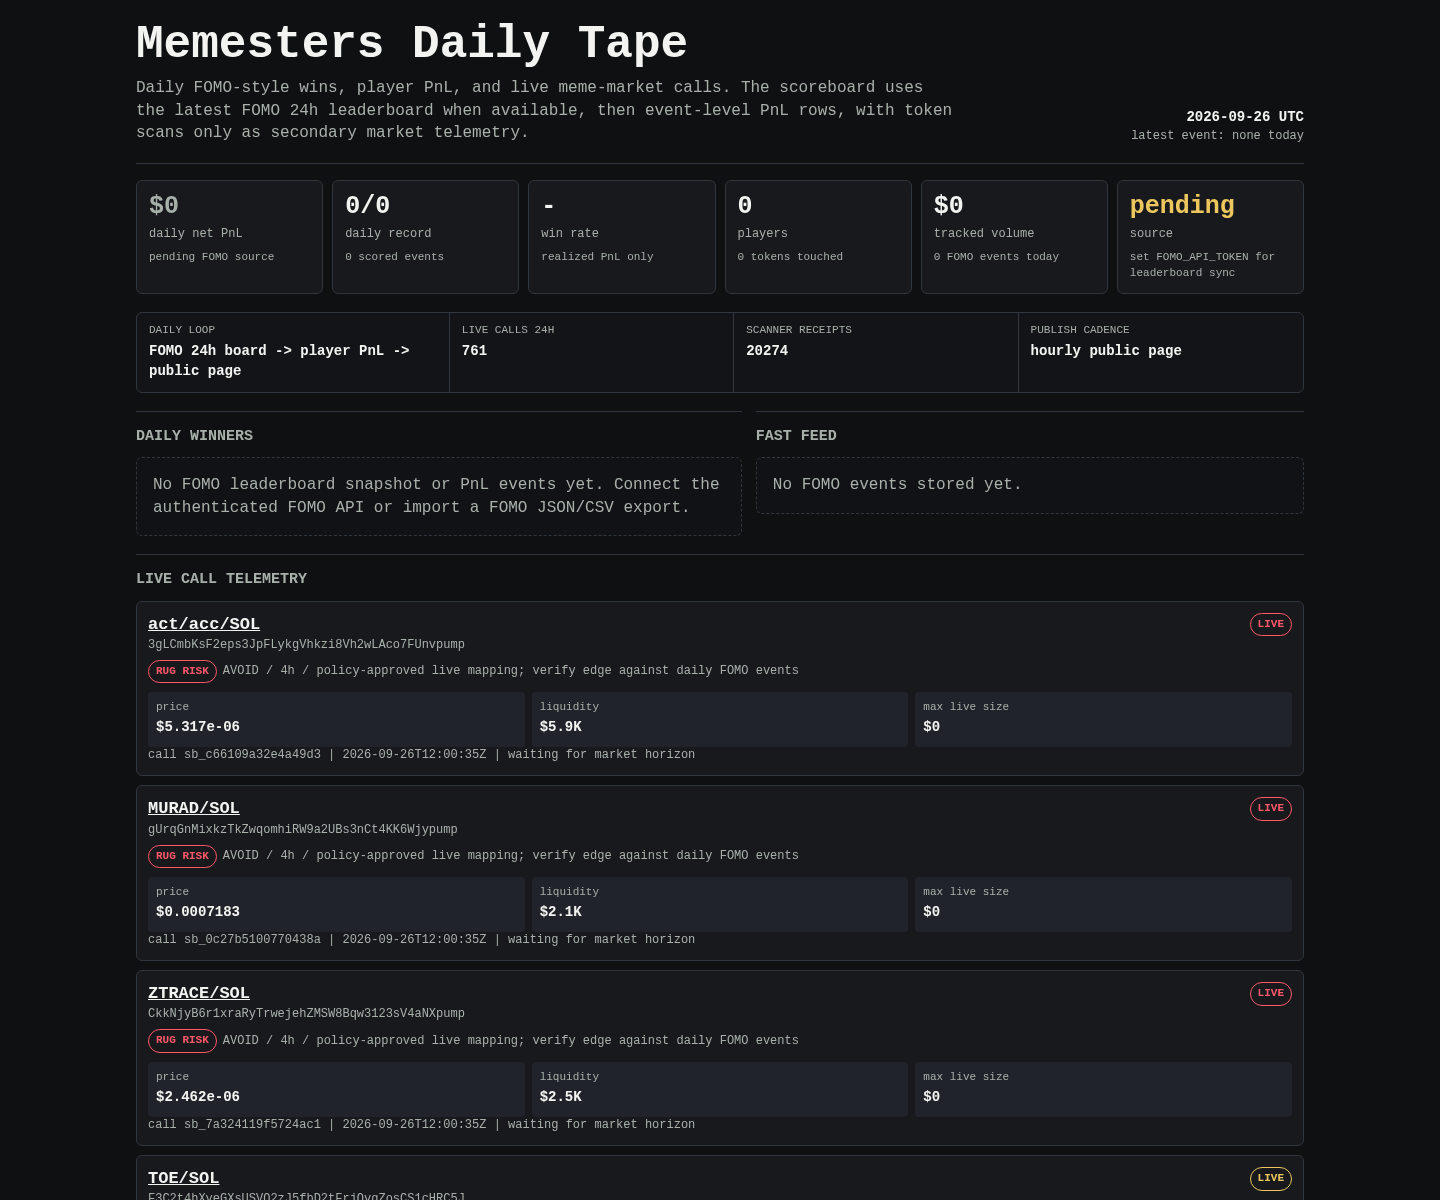
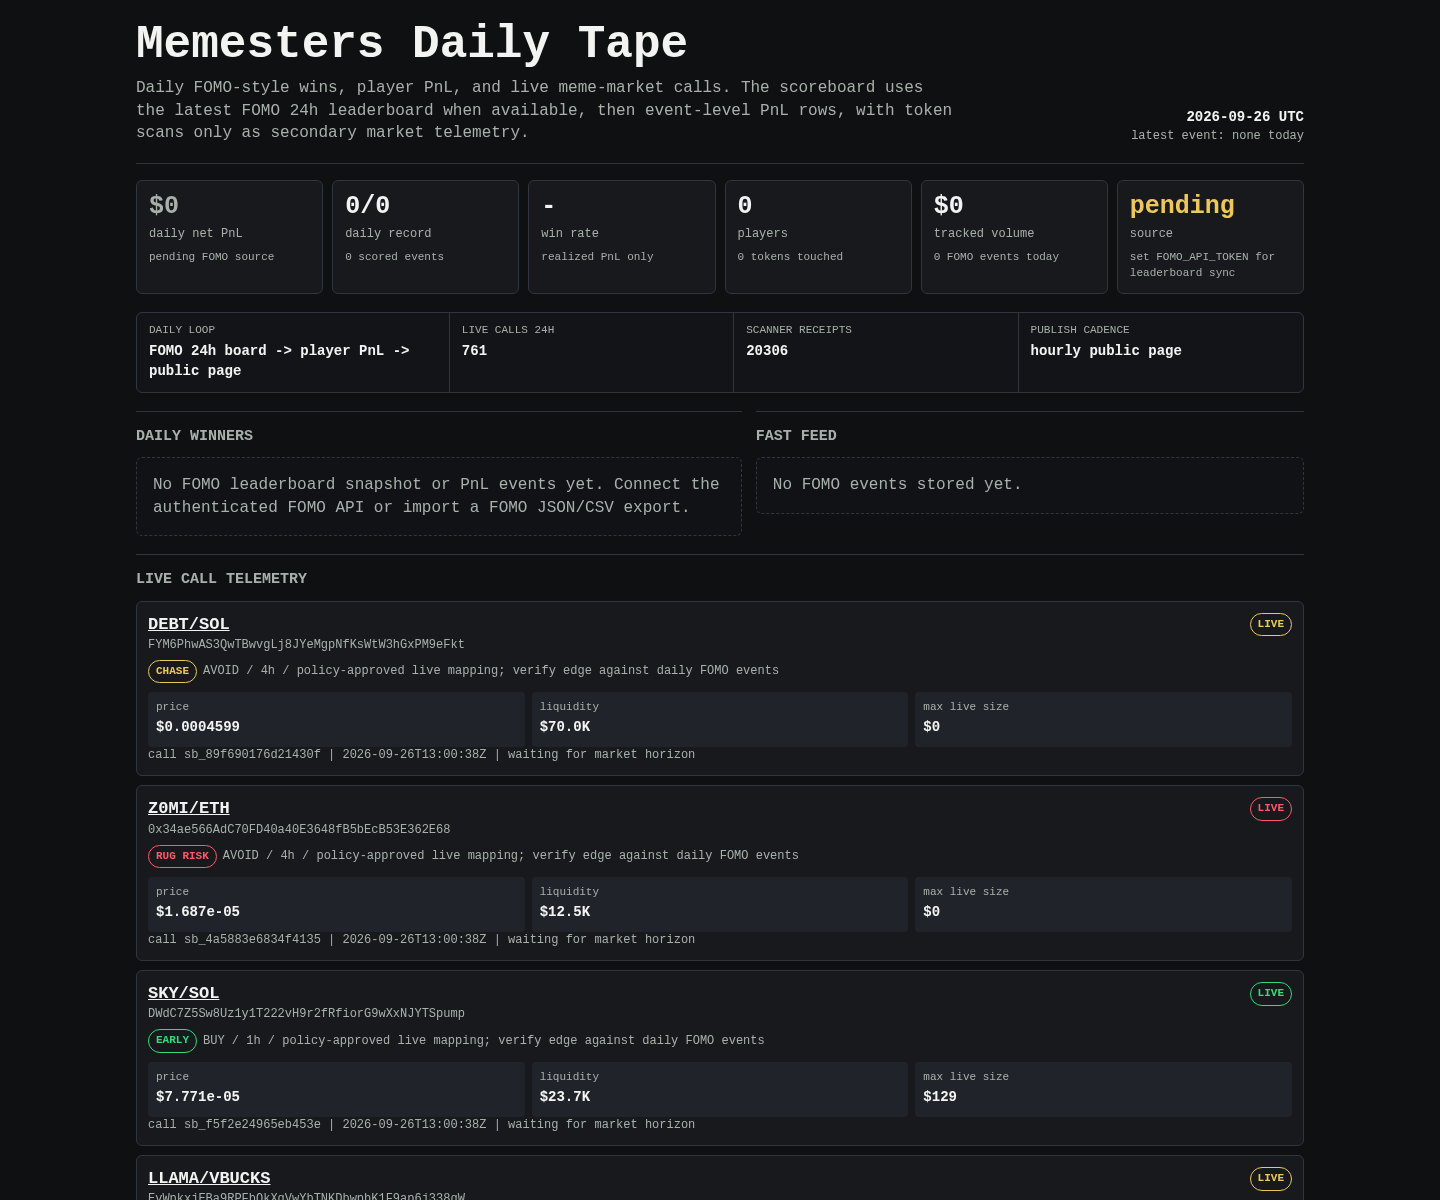
Update Memesters scoreboard

diff --git a/memesters/index.html b/memesters/index.html
@@ -150,7 +150,7 @@
     <div class="rail" aria-label="live operating loop">
       <div><span>daily loop</span><b>FOMO 24h board -> player PnL -> public page</b></div>
       <div><span>live calls 24h</span><b>761</b></div>
-      <div><span>scanner receipts</span><b>20274</b></div>
+      <div><span>scanner receipts</span><b>20306</b></div>
       <div><span>publish cadence</span><b>hourly public page</b></div>
     </div>
 
@@ -171,71 +171,8 @@
     <article class="receipt">
       <div class="receipt-head">
         <div>
-          <div class="pair"><a href="https://dexscreener.com/solana/7e6okhu4qhv2usptvlcbnuwjphsssd89nvghkku9qztd">act/acc/SOL</a></div>
-          <div class="addr">3gLCmbKsF2eps3JpFLykgVhkzi8Vh2wLAco7FUnvpump</div>
-          <div class="addr policy-line">
-            <span class="badge rug-risk">RUG RISK</span>
-            <span>AVOID / 4h / policy-approved live mapping; verify edge against daily FOMO events</span>
-          </div>
-        </div>
-        <span class="badge rug-risk">LIVE</span>
-      </div>
-      <div class="receipt-grid">
-        <div class="kv"><span>price</span><b>$5.317e-06</b></div>
-        <div class="kv"><span>liquidity</span><b>$5.9K</b></div>
-        <div class="kv"><span>max live size</span><b>$0</b></div>
-      </div>
-      <div class="outcomes">call sb_c66109a32e4a49d3 | 2026-09-26T12:00:35Z | waiting for market horizon</div>
-    </article>
-    
-
-    <article class="receipt">
-      <div class="receipt-head">
-        <div>
-          <div class="pair"><a href="https://dexscreener.com/solana/4ubjpzjiygfxmfudabnw1txgqtkfverpkekkyw5b5war">MURAD/SOL</a></div>
-          <div class="addr">gUrqGnMixkzTkZwqomhiRW9a2UBs3nCt4KK6Wjypump</div>
-          <div class="addr policy-line">
-            <span class="badge rug-risk">RUG RISK</span>
-            <span>AVOID / 4h / policy-approved live mapping; verify edge against daily FOMO events</span>
-          </div>
-        </div>
-        <span class="badge rug-risk">LIVE</span>
-      </div>
-      <div class="receipt-grid">
-        <div class="kv"><span>price</span><b>$0.0007183</b></div>
-        <div class="kv"><span>liquidity</span><b>$2.1K</b></div>
-        <div class="kv"><span>max live size</span><b>$0</b></div>
-      </div>
-      <div class="outcomes">call sb_0c27b5100770438a | 2026-09-26T12:00:35Z | waiting for market horizon</div>
-    </article>
-    
-
-    <article class="receipt">
-      <div class="receipt-head">
-        <div>
-          <div class="pair"><a href="https://dexscreener.com/solana/9ug1b4gxe9qmvzb5f6uawwzb3dcngrir1zl5dktuepzk">ZTRACE/SOL</a></div>
-          <div class="addr">CkkNjyB6r1xraRyTrwejehZMSW8Bqw3123sV4aNXpump</div>
-          <div class="addr policy-line">
-            <span class="badge rug-risk">RUG RISK</span>
-            <span>AVOID / 4h / policy-approved live mapping; verify edge against daily FOMO events</span>
-          </div>
-        </div>
-        <span class="badge rug-risk">LIVE</span>
-      </div>
-      <div class="receipt-grid">
-        <div class="kv"><span>price</span><b>$2.462e-06</b></div>
-        <div class="kv"><span>liquidity</span><b>$2.5K</b></div>
-        <div class="kv"><span>max live size</span><b>$0</b></div>
-      </div>
-      <div class="outcomes">call sb_7a324119f5724ac1 | 2026-09-26T12:00:35Z | waiting for market horizon</div>
-    </article>
-    
-
-    <article class="receipt">
-      <div class="receipt-head">
-        <div>
-          <div class="pair"><a href="https://dexscreener.com/solana/5ytqenewmtv8ubww7yyyw1cmkr9t1otayk2yyzrpedsb">TOE/SOL</a></div>
-          <div class="addr">F3C2t4hXyeGXsUSVQ2zJ5fbD2tFrjQygZosCS1cHRC5J</div>
+          <div class="pair"><a href="https://dexscreener.com/solana/ep88ktqm6491wem1zjseryxyyjuolh5ceyz5exyxr1cb">DEBT/SOL</a></div>
+          <div class="addr">FYM6PhwAS3QwTBwvgLj8JYeMgpNfKsWtW3hGxPM9eFkt</div>
           <div class="addr policy-line">
             <span class="badge chase">CHASE</span>
             <span>AVOID / 4h / policy-approved live mapping; verify edge against daily FOMO events</span>
@@ -244,40 +181,19 @@
         <span class="badge chase">LIVE</span>
       </div>
       <div class="receipt-grid">
-        <div class="kv"><span>price</span><b>$0.0001738</b></div>
-        <div class="kv"><span>liquidity</span><b>$37.5K</b></div>
+        <div class="kv"><span>price</span><b>$0.0004599</b></div>
+        <div class="kv"><span>liquidity</span><b>$70.0K</b></div>
         <div class="kv"><span>max live size</span><b>$0</b></div>
       </div>
-      <div class="outcomes">call sb_145d4262b6404644 | 2026-09-26T12:00:35Z | waiting for market horizon</div>
+      <div class="outcomes">call sb_89f690176d21430f | 2026-09-26T13:00:38Z | waiting for market horizon</div>
     </article>
     
 
     <article class="receipt">
       <div class="receipt-head">
         <div>
-          <div class="pair"><a href="https://dexscreener.com/robinhood/0xf32ed6ac2b8649c261279cc413792178b1e915f534e398535f137c1fd210ca9c">KARDASHEV/WETH</a></div>
-          <div class="addr">0xf3aC5F95151AdF049a4DFE263d8D0F9C0f168ccb</div>
-          <div class="addr policy-line">
-            <span class="badge chase">CHASE</span>
-            <span>AVOID / 4h / policy-approved live mapping; verify edge against daily FOMO events</span>
-          </div>
-        </div>
-        <span class="badge chase">LIVE</span>
-      </div>
-      <div class="receipt-grid">
-        <div class="kv"><span>price</span><b>$0.0001023</b></div>
-        <div class="kv"><span>liquidity</span><b>$51.1K</b></div>
-        <div class="kv"><span>max live size</span><b>$0</b></div>
-      </div>
-      <div class="outcomes">call sb_93e7288de51d43e6 | 2026-09-26T12:00:35Z | waiting for market horizon</div>
-    </article>
-    
-
-    <article class="receipt">
-      <div class="receipt-head">
-        <div>
-          <div class="pair"><a href="https://dexscreener.com/solana/3op7cokybzjwa14itjatshitmf5uwkwagjzqp5xxentt">XCOMPANY/SOL</a></div>
-          <div class="addr">35ynznV9r2RVSXYDrZtfsngvLRrkD3iGKjzv5c3U2i7u</div>
+          <div class="pair"><a href="https://dexscreener.com/robinhood/0x08118e255b6637c6fad92002179a9308f68a485d97c228e8f606d52847f4e511">Z0MI/ETH</a></div>
+          <div class="addr">0x34ae566AdC70FD40a40E3648fB5bEcB53E362E68</div>
           <div class="addr policy-line">
             <span class="badge rug-risk">RUG RISK</span>
             <span>AVOID / 4h / policy-approved live mapping; verify edge against daily FOMO events</span>
@@ -286,11 +202,137 @@
         <span class="badge rug-risk">LIVE</span>
       </div>
       <div class="receipt-grid">
-        <div class="kv"><span>price</span><b>$6.303e-06</b></div>
-        <div class="kv"><span>liquidity</span><b>$5.2K</b></div>
+        <div class="kv"><span>price</span><b>$1.687e-05</b></div>
+        <div class="kv"><span>liquidity</span><b>$12.5K</b></div>
         <div class="kv"><span>max live size</span><b>$0</b></div>
       </div>
-      <div class="outcomes">call sb_55a4ce2a7fd642eb | 2026-09-26T12:00:35Z | waiting for market horizon</div>
+      <div class="outcomes">call sb_4a5883e6834f4135 | 2026-09-26T13:00:38Z | waiting for market horizon</div>
+    </article>
+    
+
+    <article class="receipt">
+      <div class="receipt-head">
+        <div>
+          <div class="pair"><a href="https://dexscreener.com/solana/2atdzdh4ldls2nji1hqwofgq3azbt33lshmaxocnqicq">SKY/SOL</a></div>
+          <div class="addr">DWdC7Z5Sw8Uz1y1T222vH9r2fRfiorG9wXxNJYTSpump</div>
+          <div class="addr policy-line">
+            <span class="badge early">EARLY</span>
+            <span>BUY / 1h / policy-approved live mapping; verify edge against daily FOMO events</span>
+          </div>
+        </div>
+        <span class="badge early">LIVE</span>
+      </div>
+      <div class="receipt-grid">
+        <div class="kv"><span>price</span><b>$7.771e-05</b></div>
+        <div class="kv"><span>liquidity</span><b>$23.7K</b></div>
+        <div class="kv"><span>max live size</span><b>$129</b></div>
+      </div>
+      <div class="outcomes">call sb_f5f2e24965eb453e | 2026-09-26T13:00:38Z | waiting for market horizon</div>
+    </article>
+    
+
+    <article class="receipt">
+      <div class="receipt-head">
+        <div>
+          <div class="pair"><a href="https://dexscreener.com/solana/gpev8xjit5pjfxtoq5a1fag1atci2zxla2st5pz48tso">LLAMA/VBUCKS</a></div>
+          <div class="addr">EvWpkxjEBa9RPFbQkXqVwYbTNKDbwpbK1F9ap6j338qW</div>
+          <div class="addr policy-line">
+            <span class="badge chase">CHASE</span>
+            <span>AVOID / 4h / policy-approved live mapping; verify edge against daily FOMO events</span>
+          </div>
+        </div>
+        <span class="badge chase">LIVE</span>
+      </div>
+      <div class="receipt-grid">
+        <div class="kv"><span>price</span><b>$6.153e-05</b></div>
+        <div class="kv"><span>liquidity</span><b>$30.1K</b></div>
+        <div class="kv"><span>max live size</span><b>$0</b></div>
+      </div>
+      <div class="outcomes">call sb_4eda6ccd8baa4184 | 2026-09-26T13:00:38Z | waiting for market horizon</div>
+    </article>
+    
+
+    <article class="receipt">
+      <div class="receipt-head">
+        <div>
+          <div class="pair"><a href="https://dexscreener.com/robinhood/0x391112331701c8e32b836712f0f7fa14072a27b662f881eccf55003d3b16520d">FILR/WETH</a></div>
+          <div class="addr">0xB6eF1B60750a7F7e3f6b075989D48e9C733dD1da</div>
+          <div class="addr policy-line">
+            <span class="badge chase">CHASE</span>
+            <span>AVOID / 4h / policy-approved live mapping; verify edge against daily FOMO events</span>
+          </div>
+        </div>
+        <span class="badge chase">LIVE</span>
+      </div>
+      <div class="receipt-grid">
+        <div class="kv"><span>price</span><b>$2.901e-06</b></div>
+        <div class="kv"><span>liquidity</span><b>$166.9K</b></div>
+        <div class="kv"><span>max live size</span><b>$0</b></div>
+      </div>
+      <div class="outcomes">call sb_275c557f35944ee6 | 2026-09-26T13:00:38Z | waiting for market horizon</div>
+    </article>
+    
+
+    <article class="receipt">
+      <div class="receipt-head">
+        <div>
+          <div class="pair"><a href="https://dexscreener.com/bsc/0x0a491268eddb31372a59d8e99b52a1ca069b7793">PAYTIP/WBNB</a></div>
+          <div class="addr">0x336f20985983eE9a23F9C1523cCE3187f8a97777</div>
+          <div class="addr policy-line">
+            <span class="badge chase">CHASE</span>
+            <span>AVOID / 4h / policy-approved live mapping; verify edge against daily FOMO events</span>
+          </div>
+        </div>
+        <span class="badge chase">LIVE</span>
+      </div>
+      <div class="receipt-grid">
+        <div class="kv"><span>price</span><b>$0.0001687</b></div>
+        <div class="kv"><span>liquidity</span><b>$42.3K</b></div>
+        <div class="kv"><span>max live size</span><b>$0</b></div>
+      </div>
+      <div class="outcomes">call sb_f42e6870040f4f0d | 2026-09-26T13:00:38Z | waiting for market horizon</div>
+    </article>
+    
+
+    <article class="receipt">
+      <div class="receipt-head">
+        <div>
+          <div class="pair"><a href="https://dexscreener.com/solana/3hngsakvrjzcoyhhkdarrguxpvnkuv66p55pkljuzkaq">MICHAEL/SOL</a></div>
+          <div class="addr">bh6GbasUGwX7t6oS5J61F41UGTtujYnzsKoy6Y1d8Cb</div>
+          <div class="addr policy-line">
+            <span class="badge rug-risk">RUG RISK</span>
+            <span>AVOID / 4h / policy-approved live mapping; verify edge against daily FOMO events</span>
+          </div>
+        </div>
+        <span class="badge rug-risk">LIVE</span>
+      </div>
+      <div class="receipt-grid">
+        <div class="kv"><span>price</span><b>$5.924e-05</b></div>
+        <div class="kv"><span>liquidity</span><b>$21.0K</b></div>
+        <div class="kv"><span>max live size</span><b>$0</b></div>
+      </div>
+      <div class="outcomes">call sb_2e794f9dd70645dc | 2026-09-26T13:00:38Z | waiting for market horizon</div>
+    </article>
+    
+
+    <article class="receipt">
+      <div class="receipt-head">
+        <div>
+          <div class="pair"><a href="https://dexscreener.com/solana/3uujzcgwsukefgum7eklqt6eq34ti5fgrh94kk1jm7vp">DEBT/SOL</a></div>
+          <div class="addr">tZNEqT2wBbWVJyCTkHvMMduGQt9KeQMXrNfP4adiD1G</div>
+          <div class="addr policy-line">
+            <span class="badge chase">CHASE</span>
+            <span>AVOID / 4h / policy-approved live mapping; verify edge against daily FOMO events</span>
+          </div>
+        </div>
+        <span class="badge chase">LIVE</span>
+      </div>
+      <div class="receipt-grid">
+        <div class="kv"><span>price</span><b>$0.0001289</b></div>
+        <div class="kv"><span>liquidity</span><b>$32.3K</b></div>
+        <div class="kv"><span>max live size</span><b>$0</b></div>
+      </div>
+      <div class="outcomes">call sb_c05b83871b344f3b | 2026-09-26T13:00:38Z | waiting for market horizon</div>
     </article>
     
 
@@ -307,11 +349,11 @@
         <span class="badge chase">LIVE</span>
       </div>
       <div class="receipt-grid">
-        <div class="kv"><span>price</span><b>$7.823e-05</b></div>
-        <div class="kv"><span>liquidity</span><b>$47.2K</b></div>
+        <div class="kv"><span>price</span><b>$0.0002343</b></div>
+        <div class="kv"><span>liquidity</span><b>$89.6K</b></div>
         <div class="kv"><span>max live size</span><b>$0</b></div>
       </div>
-      <div class="outcomes">call sb_7bb2012b9c6e4bb6 | 2026-09-26T12:00:35Z | waiting for market horizon</div>
+      <div class="outcomes">call sb_f792d1a6a9134772 | 2026-09-26T12:45:30Z | waiting for market horizon</div>
     </article>
     
 
@@ -321,27 +363,6 @@
           <div class="pair"><a href="https://dexscreener.com/robinhood/0x5ef1d00889bc87fa79b04e6fc28029a9a8de6cdea940340ab29d736fc36b3dca">P(DOOM)/WETH</a></div>
           <div class="addr">0x01a5EFbf6CE66a2c8dA23F1BeC95D45469b510dc</div>
           <div class="addr policy-line">
-            <span class="badge chase">CHASE</span>
-            <span>AVOID / 4h / policy-approved live mapping; verify edge against daily FOMO events</span>
-          </div>
-        </div>
-        <span class="badge chase">LIVE</span>
-      </div>
-      <div class="receipt-grid">
-        <div class="kv"><span>price</span><b>$0.0001745</b></div>
-        <div class="kv"><span>liquidity</span><b>$83.4K</b></div>
-        <div class="kv"><span>max live size</span><b>$0</b></div>
-      </div>
-      <div class="outcomes">call sb_5dbf5d832a7746e1 | 2026-09-26T12:00:35Z | waiting for market horizon</div>
-    </article>
-    
-
-    <article class="receipt">
-      <div class="receipt-head">
-        <div>
-          <div class="pair"><a href="https://dexscreener.com/solana/cqtuzumavpwsdmoaf5xvct6o4bybupgiqkddkb7rfewj">XLife/SOL</a></div>
-          <div class="addr">5u8nBxxcc2wxBmurh4oZkGuurt3PRYHZagZCG1M8b48B</div>
-          <div class="addr policy-line">
             <span class="badge rug-risk">RUG RISK</span>
             <span>AVOID / 4h / policy-approved live mapping; verify edge against daily FOMO events</span>
           </div>
@@ -349,32 +370,11 @@
         <span class="badge rug-risk">LIVE</span>
       </div>
       <div class="receipt-grid">
-        <div class="kv"><span>price</span><b>$5.802e-06</b></div>
-        <div class="kv"><span>liquidity</span><b>$5.0K</b></div>
+        <div class="kv"><span>price</span><b>$0.0002526</b></div>
+        <div class="kv"><span>liquidity</span><b>$103.1K</b></div>
         <div class="kv"><span>max live size</span><b>$0</b></div>
       </div>
-      <div class="outcomes">call sb_e08c9002224f42d1 | 2026-09-26T11:45:33Z | waiting for market horizon</div>
-    </article>
-    
-
-    <article class="receipt">
-      <div class="receipt-head">
-        <div>
-          <div class="pair"><a href="https://dexscreener.com/solana/jdmmza2dricthp2ejkpzytzxzhapa1wfwk6z4yatrutm">BEFF/SOL</a></div>
-          <div class="addr">Gt4aXuoVGkDgXKSjJ4qsvtvWi9si3rUwi8jDuJZ28kEm</div>
-          <div class="addr policy-line">
-            <span class="badge rug-risk">RUG RISK</span>
-            <span>AVOID / 4h / policy-approved live mapping; verify edge against daily FOMO events</span>
-          </div>
-        </div>
-        <span class="badge rug-risk">LIVE</span>
-      </div>
-      <div class="receipt-grid">
-        <div class="kv"><span>price</span><b>$1.508e-05</b></div>
-        <div class="kv"><span>liquidity</span><b>$9.2K</b></div>
-        <div class="kv"><span>max live size</span><b>$0</b></div>
-      </div>
-      <div class="outcomes">call sb_075f38d606004624 | 2026-09-26T11:45:33Z | waiting for market horizon</div>
+      <div class="outcomes">call sb_e7daa14ce91a45a1 | 2026-09-26T12:45:30Z | waiting for market horizon</div>
     </article>
     
     </section>
